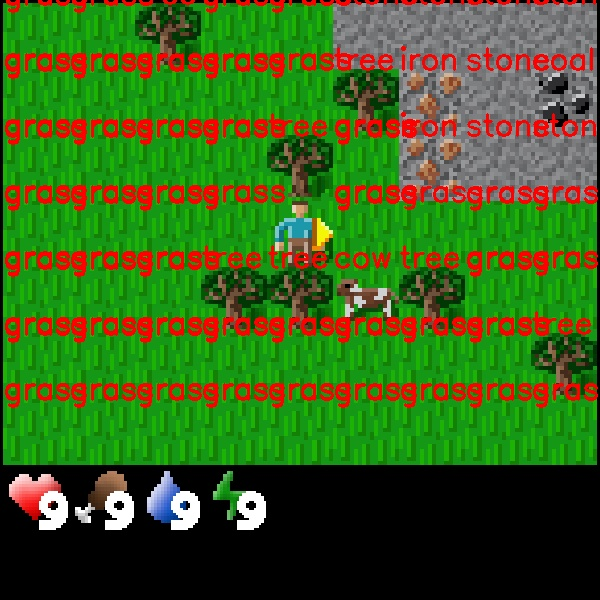
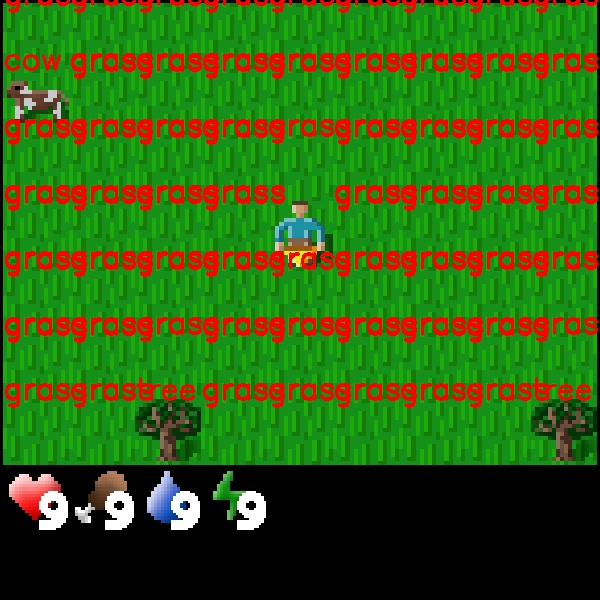
add night detector

diff --git a/recognizer.py b/recognizer.py
@@ -6,16 +6,17 @@ from glob import glob
 import numpy as np
 
 
-# window: numpy array of the window, must process to be RGB
-def pattern_recognizer(window, reference_image_path):
-    assert isinstance(window, np.ndarray), "window must be a numpy array"
+# used opencv to match tile template. there is reference image in img folder
+#   _window: numpy array of the window, must process to be RGB
+def pattern_recognizer(_window, reference_image_path):
+    assert isinstance(_window, np.ndarray), "window must be a numpy array"
     assert os.path.isfile(reference_image_path), f"ref_img_path: {reference_image_path} must be a valid file path"
 
     # Load source image and template image
     reference_image = cv2.imread(reference_image_path, cv2.IMREAD_COLOR)
 
     # apply template matching
-    res = cv2.matchTemplate(window, reference_image, cv2.TM_CCOEFF_NORMED)
+    res = cv2.matchTemplate(_window, reference_image, cv2.TM_CCOEFF_NORMED)
 
     # set a threshold for the matching
     threshold = 0.9  # set your threshold here
@@ -24,28 +25,30 @@ def pattern_recognizer(window, reference_image_path):
     return list(zip(loc[1], loc[0]))  # (x, y) format
 
 
-def status_recognizer(window):
-    assert isinstance(window, np.ndarray), "window must be a numpy array"
+# get the status of the player. inventory also included.
+def status_recognizer(_window):
+    assert isinstance(_window, np.ndarray), "window must be a numpy array"
 
+    # crop the window to get the status, must be fine-tuned
     window_status = {
-        "health": window[470:540, 20:85],
-        "hunger": window[470:540, 91:145],
-        "water": window[470:540, 145:210],
-        "energy": window[470:540, 210:285],
+        "health": _window[470:540, 20:85],
+        "hunger": _window[470:540, 91:145],
+        "water": _window[470:540, 145:210],
+        "energy": _window[470:540, 210:285],
 
-        "sapling": window[470:540, 285:350],
-        "wood": window[470:540, 350:415],
-        "stone": window[470:540, 415:480],
-        "coal": window[470:540, 480:545],
-        "iron": window[470:540, 540:600],
+        "sapling": _window[470:540, 285:350],
+        "wood": _window[470:540, 350:415],
+        "stone": _window[470:540, 415:480],
+        "coal": _window[470:540, 480:545],
+        "iron": _window[470:540, 540:600],
 
-        "wood_pickaxe": window[535:600, 90:145],
-        "stone_pickaxe": window[535:600, 145:220],
-        "iron_pickaxe": window[535:600, 210:285],
+        "wood_pickaxe": _window[535:600, 90:145],
+        "stone_pickaxe": _window[535:600, 145:220],
+        "iron_pickaxe": _window[535:600, 210:285],
 
-        "wood_sword": window[535:600, 285:350],
-        "stone_sword": window[535:600, 350:415],
-        "iron_sword": window[535:600, 415:490],
+        "wood_sword": _window[535:600, 285:350],
+        "stone_sword": _window[535:600, 350:415],
+        "iron_sword": _window[535:600, 415:490],
     }
 
     thresh_white = 250
@@ -54,17 +57,22 @@ def status_recognizer(window):
         window_status[key] = cv2.cvtColor(window_status[key], cv2.COLOR_RGB2GRAY)
         window_status[key] = cv2.threshold(window_status[key], thresh_white, 255, cv2.THRESH_BINARY)[1]
 
+    # if you want to see the image, uncomment the following code
 #    key = "coal"
 #    cv2.imshow(key, window_read[key])
 
     for key in window_status.keys():
         text = pytesseract.image_to_string(window_status[key], config='--psm 13 digits')
+
+        # remove all non-digit characters (the first character is always a digit)
+        # there could be empty string
         if len(text) > 0:
             text = text[0]
-
-        if text == '':
+        elif text == '':
+            # number 4 is similar to empty string. so we need to check the mean brightness of the image
             if np.mean(window_status[key]) > 30:
                 text = int(4)
+            # if the mean brightness is low, it is empty (0)
             else:
                 text = int(0)
         try:
@@ -76,17 +84,20 @@ def status_recognizer(window):
     return window_status
 
 
-def recognized_tag_writer(window, recognizer_out):
-    assert isinstance(window, np.ndarray), "window must be a numpy array"
+# write the recognized tag on the window.
+# you need absolute position of the tag (not relative position)
+# recognizer_out: {tag: list of absolute position}
+def recognized_tag_writer(_window, recognizer_out):
+    assert isinstance(_window, np.ndarray), "window must be a numpy array"
     assert isinstance(recognizer_out, dict), "recognizer_out must be a dict"
 
     for tag, pt_list in recognizer_out.items():
         if isinstance(pt_list, list):
             for pt in pt_list:
                 # write a tag on the matching area
-                cv2.putText(window, tag, pt, cv2.FONT_HERSHEY_SIMPLEX, 1, (0, 0, 255), 2)
+                cv2.putText(_window, tag, pt, cv2.FONT_HERSHEY_SIMPLEX, 1, (0, 0, 255), 2)
 
-    return window
+    return _window
 
 
 def ambient_recognizer(window, reference_image_dir_path):
@@ -116,8 +127,25 @@ def ambient_recognizer(window, reference_image_dir_path):
             if len(loc) > 0:
                 ambient_abs[image_name] += loc
 
+    ambient_rel = convert_absolute_ambient_to_relative(ambient_abs)
+    print("ambient relative position: ", ambient_rel)
 
-    # change the recognizer_out to relative distance
+    isNight = night_detector(ambient_rel)
+    ambient_rel["isNight"] = isNight
+
+    window_status = status_recognizer(window)
+    print("window status: ", window_status)
+
+    window = recognized_tag_writer(window, ambient_abs)
+    # Display the image
+    cv2.imshow("Detected Position", window)
+    cv2.imwrite("Detected Position.jpg", window)
+
+
+# divide the coordinate by 66 to get the tile position
+# subtract (4, 3) to get the relative position
+# make the coordinate unique
+def convert_absolute_ambient_to_relative(ambient_abs):
     ambient_rel = {}
     for tag, pt_list_abs in ambient_abs.items():
         pt_list_rel = []
@@ -127,17 +155,20 @@ def ambient_recognizer(window, reference_image_dir_path):
         ambient_rel[tag] = []
         for pt in pt_list_rel:
             ambient_rel[tag].append([a - b for a, b in zip(pt, [4, 3])])
+    return ambient_rel
 
-    print("ambient relative position: ", ambient_rel)
 
-    window_status = status_recognizer(window)
-    print("window status: ", window_status)
+# return True if it is night
+# if recognition rate is low, it is night
+def night_detector(ambient_rel):
+    # sum all length of ambient_rel.values()
+    count = sum(len(v) for v in ambient_rel.values())
+    print("count: ", count)
+    if count < 20:
+        return True
+    else:
+        return False
 
-    window = recognized_tag_writer(window, ambient_abs)
-
-    # Display the image
-    cv2.imshow("Detected Position", window)
-    cv2.imwrite("Detected Position.jpg", window)
 
 
 if __name__ == '__main__':
